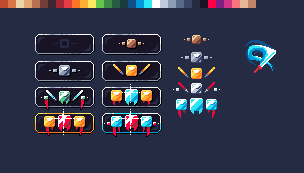
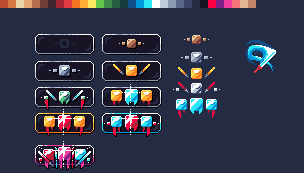
added more ranks

Changed region(s): [[0.0888, 0.8382, 0.3257, 0.9827], [0.7105, 0.0, 0.7697, 0.0578]]

diff --git a/api.py b/api.py
@@ -353,14 +353,16 @@ def player_rank_base(pool_id, users, short=False):
             if player_cr == 0:
                 player_tier = 'none'
             if player_rank_ratio < 0.001:
-                player_tier = 'myth'
+                player_tier = 'mystic'
             elif player_rank_ratio < 0.01:
+                player_tier = 'myth'
+            elif player_rank_ratio < 0.025:
                 player_tier = 'master'
-            elif player_rank_ratio < 0.05:
+            elif player_rank_ratio < 0.07:
                 player_tier = 'diamond'
-            elif player_rank_ratio < 0.1:
+            elif player_rank_ratio < 0.15:
                 player_tier = 'platinum'
-            elif player_rank_ratio < 0.2:
+            elif player_rank_ratio < 0.25:
                 player_tier = 'gold'
             elif player_rank_ratio < 0.5:
                 player_tier = 'silver'

diff --git a/user.py b/user.py
@@ -41,14 +41,16 @@ class User():
         if self.scores == []:
             player_tier = 'none'
         elif player_rank_ratio < 0.001:
-            player_tier = 'myth'
+            player_tier = 'mystic'
         elif player_rank_ratio < 0.01:
+            player_tier = 'myth'
+        elif player_rank_ratio < 0.025:
             player_tier = 'master'
-        elif player_rank_ratio < 0.05:
+        elif player_rank_ratio < 0.07:
             player_tier = 'diamond'
-        elif player_rank_ratio < 0.1:
+        elif player_rank_ratio < 0.15:
             player_tier = 'platinum'
-        elif player_rank_ratio < 0.2:
+        elif player_rank_ratio < 0.25:
             player_tier = 'gold'
         elif player_rank_ratio < 0.5:
             player_tier = 'silver'
